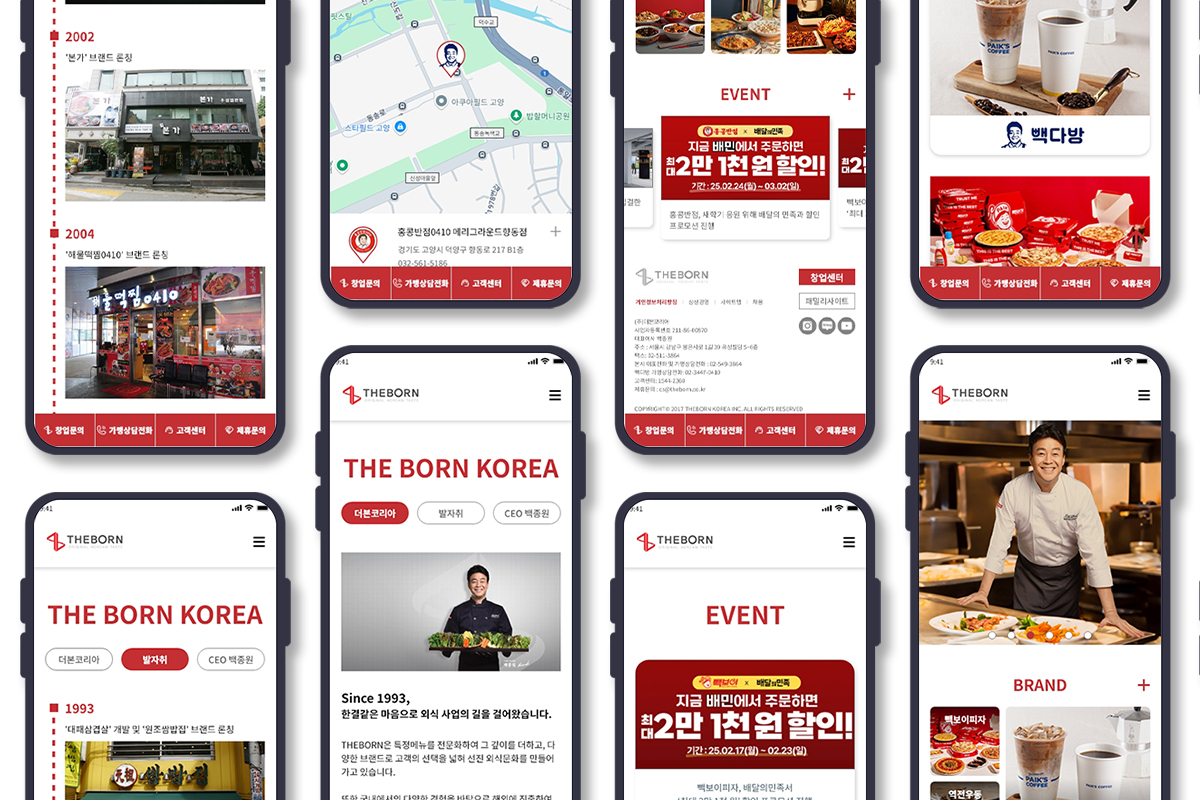
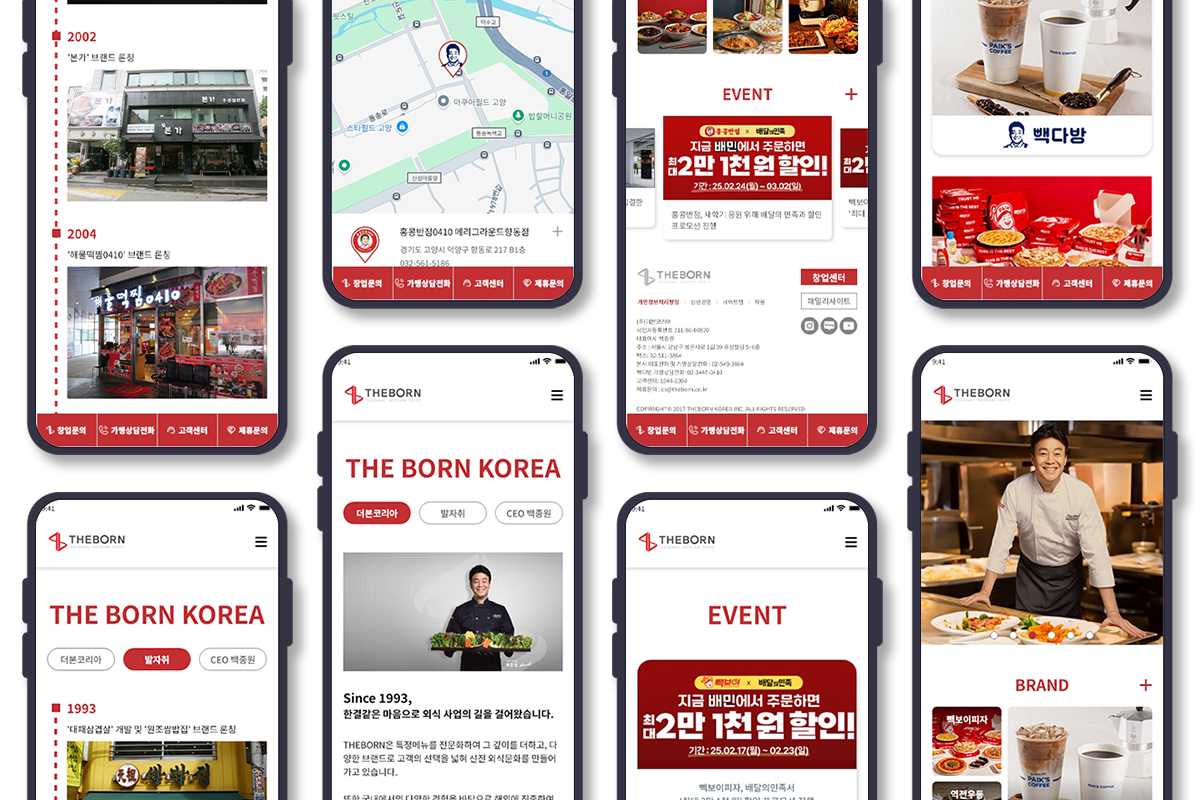
update sub_web.html layout and web mock image

diff --git a/sub_Web.html b/sub_Web.html
@@ -64,7 +64,21 @@
         <div class="inner">
             <div class="summary">
                 <h2>WEB DESIGN - 더본코리아 사이트 리뉴얼 프로젝트</h2>
-                <img src="./img/WEB_더본코리아_Mockup.jpg" alt="더본코리아 목업" onclick="openModal(this)">
+                <div>
+                    <div>
+                        <img src="./img/WEB_더본코리아_Mockup.jpg" alt="더본코리아 목업" onclick="openModal(this)">
+                    </div>
+                    <div class="description">
+                        <h4>더본코리아 웹페이지 리뉴얼 디자인</h4>
+                        <p>
+                            더본코리아 웹사이트의 사용자 경험 개선과 브랜드 이미지 강화를 목적으로 리뉴얼 디자인을 진행한 프로젝트입니다. <br>
+                            기업 이미지에서 강점인 인지도 높은 대표의 이미지와 다양한 프랜차이즈 이미지를 더 활발히 사용하여 <br>
+                            기업 아이덴티티와 브랜드 아이덴티티를 직관적으로 인지할 수 있도록 리디자인 하였습니다. <br>
+                            기존 홈페이지에서의 가독성과 시인성을 개선하기 위하여 타이포그래피를 재구성하고, <br>
+                            브랜드 주조색의 시각적 위계를 조정하여 정보 전달력을 강화하였습니다. 
+                        </p>
+                    </div>
+                </div>
             </div>
             <div class="main">
                 <div class="img_area">

diff --git a/css/style.css b/css/style.css
@@ -304,6 +304,33 @@ h4{
 .web .summary img{
     width: 100%;;
 }
+
+.web .summary>div{
+    position: relative;   
+    overflow: hidden;
+}
+.web .summary .description{
+    position: absolute; 
+    padding: var(--sub_gap);
+    bottom: 0; 
+    width: 100%;
+    color: #fff;
+    display: flex;
+    align-items: center;
+    justify-content: center;
+    flex-direction: column;
+    background-color: rgba(0, 0, 0, 0.8);
+    transition: 0.5s;
+    transform: translateY(150%);
+}
+.web .summary:hover .description{
+    transform: translateY(0);
+}
+.web .summary .description h4{
+    margin-bottom: var(--sub_gap);
+}
+
+
 .web .main{
     width: 100%;
     display: flex;
